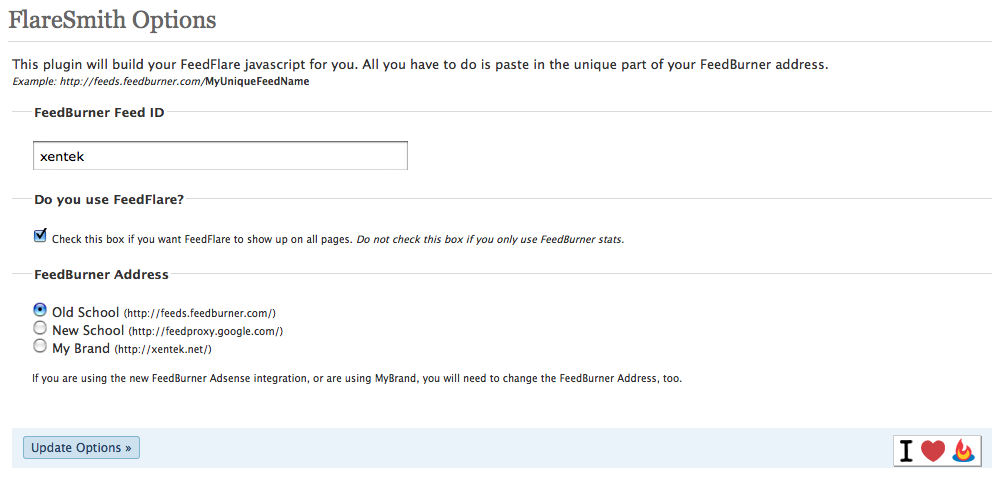
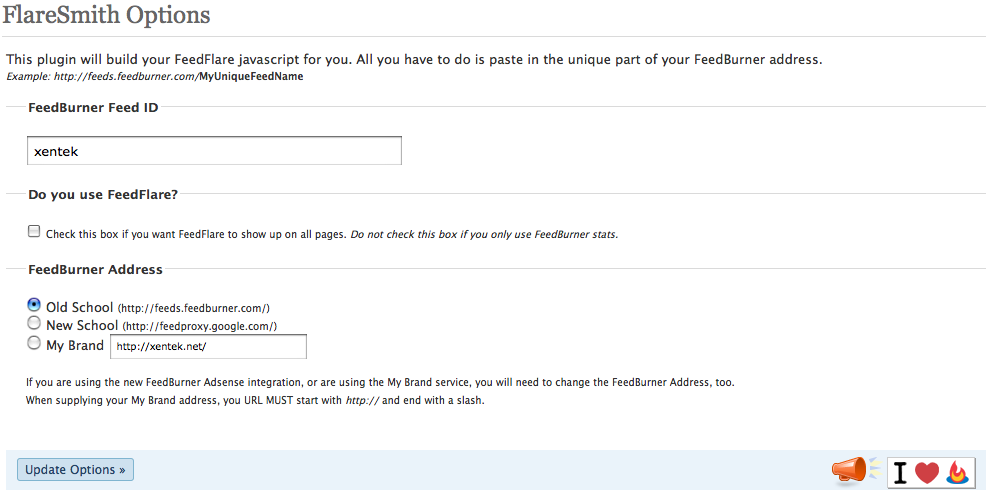
MOD: updated to v0.17... fixes My Brand support and adds a link back to my homepage

diff --git a/flaresmith-options.php b/flaresmith-options.php
@@ -23,7 +23,11 @@
 ?>
 <?php
 if ( !empty($_POST ) ) : 
-	update_option('feedflare_address',$_POST['feedflare_address']);
+	if ($_POST['feedflare_address'] == 'mybrand') {
+		update_option('feedflare_address',$_POST['feedflare_mybrand']);
+	} else {
+		update_option('feedflare_address',$_POST['feedflare_address']);
+	}
 	update_option('feedflare_snippet',$_POST['feedflare_snippet']);
 	update_option('feedflare_show_homepage',$_POST['feedflare_show_homepage']);
 ?>
@@ -33,11 +37,19 @@ if ( !empty($_POST ) ) :
 	$feedflare_show_homepage = get_option('feedflare_show_homepage');
 	$feedflare_address = get_option('feedflare_address');
 	if (!$feedflare_address = get_option('feedflare_address')) {
-		$feedflare_address = "http://feeds.feedburner.com/";
+		$feedflare_address = 'http://feeds.feedburner.com/';
+	}
+	
+	if ($feedflare_address == 'http://feeds.feedburner.com/' OR $feedflare_address == 'http://feedproxy.google.com/') {
+		$mybrand = false;
+		$feedflare_mybrand = get_bloginfo('url') . '/';
+	} else {
+		$mybrand = true;
+		$feedflare_mybrand = $feedflare_address;
 	}
 ?>
 <div class="wrap">
-	<h2><?php _e('FlareSmith Options','feedflare'); ?></h2>
+	<h2><?php _e('Flare Smith Options','feedflare'); ?></h2>
 
 	<p><?php _e('This plugin will build your FeedFlare javascript for you.','feedflrare'); ?> <?php _e('All you have to do is paste in the unique part of your FeedBurner address.','feedflare'); ?> <br />
 		<small><em><?php _e('Example:','feedflare'); ?> http://feeds.feedburner.com/</em><strong><?php _e('MyUniqueFeedName','feedflare'); ?></strong></small>
@@ -65,13 +77,18 @@ if ( !empty($_POST ) ) :
 				<label class="hidden" for="feedflare_address"><?php _e('FeedBurner Address','feedflare'); ?>:</label>
 				<input name="feedflare_address" type="radio" value="http://feeds.feedburner.com/" <?php if ($feedflare_address == 'http://feeds.feedburner.com/' || !$feedflare_address) { echo 'checked="checked"'; } ?> /> Old School <small>(http://feeds.feedburner.com/)</small><br />
 				<input name="feedflare_address" type="radio" value="http://feedproxy.google.com/" <?php if ($feedflare_address == 'http://feedproxy.google.com/') { echo 'checked="checked"'; } ?> /> New School <small>(http://feedproxy.google.com/)</small><br />
-				<input name="feedflare_address" type="radio" value="<?php bloginfo('url'); ?>/" <?php if ($feedflare_address == get_bloginfo('url')) { echo 'checked="checked"'; } ?> /> My Brand <small>(<?php bloginfo('url'); ?>/)</small>
-				
-			<p><small><?php _e('If you are using the new FeedBurner Adsense integration, or are using MyBrand, you will need to change the FeedBurner Address, too.','feedflare'); ?></small></p>
+				<input name="feedflare_address" type="radio" value="mybrand" <?php if ($mybrand) { echo 'checked="checked"'; } ?> /> My Brand <input name="feedflare_mybrand" id="feedflare_mybrand" value="<?php echo $feedflare_mybrand; ?>" size="30" style="font-size: 75%;" />
+
+			<p><small>
+				<?php _e('If you are using the new FeedBurner Adsense integration, or are using the My Brand service, you will need to change the FeedBurner Address, too.','feedflare'); ?><br />
+				<?php _e('When supplying your My Brand address, you URL MUST start with ','feedflare'); ?><em>http://</em><?php _e(' and end with a slash.','feedflare'); ?>
+			</small></p>
 		</fieldset>
+		
 		<div class="tablenav">
 			<div class="alignleft"><input type="submit" name="submit" value="<?php _e('Update Options »', 'feedflare') ?>" class="button-secondary" /></div>
-			<div class="alignright"><a href="http://feedburner.com/" title="i heart feedburner"><img valign="middle" src="/<?php echo PLUGINDIR.'/'.dirname(plugin_basename(__FILE__)); ?>/i_heart_fb.gif" /></a></div>
+			<div class="alignright"><a href="http://xentek.net/?utm_source=plugin&amp;utm_medium=options&amp;utm_content=icon&amp;utm_campaign=flaresmith" title="visit xentek.net - creator of this plugin"><img src="http://xentek.net/img/icons/recruiter_32.png" width="52" height="32" alt="bullhorn icon" title="visit xentek.net - creator of this plugin" border="0" valign="middle" /></a> <a href="http://feedburner.com/" title="i heart feedburner"><img valign="middle" src="/<?php echo PLUGINDIR.'/'.dirname(plugin_basename(__FILE__)); ?>/i_heart_fb.gif" /></a></div>
 		</div>
+		
 	</form>
 </div>

diff --git a/flaresmith-plugin.php b/flaresmith-plugin.php
@@ -2,8 +2,8 @@
 /*
 Plugin Name: Flare Smith
 Plugin URI: http://xentek.net/code/wordpress/plugins/flaresmith/
-Description: Plugin to insert FeedBurner's javascript to support FeedBurner Stats and FeedFlare units on your WordPress site. All without having to edit your theme files! <a href="options-general.php?page=feedflare/flaresmith-options.php" title="Configure the FlareSmith plugin">Configure Settings</a> or <a href="http://xentek.net/code/wordpress/plugins/flaresmith/" title="Get help with FlareSmith for suggest new features.">Get Support</a>. <em>Code</em>
-Version: 0.16
+Description: Plugin to insert FeedBurner's javascript to support FeedBurner Stats and FeedFlare units on your WordPress site. All without having to edit your theme files! <a href="options-general.php?page=feedflare/flaresmith-options.php" title="Configure the FlareSmith plugin">Configure Settings</a> or <a href="http://xentek.net/code/wordpress/plugins/flaresmith/?utm_source=plugin&amp;utm_medium=list&amp;utm_campaign=flaresmith" title="Get help with FlareSmith for suggest new features.">Get Support</a>. <em>Code</em>
+Version: 0.17
 Author: Eric Marden
 Author URI: http://www.xentek.net/
 */
